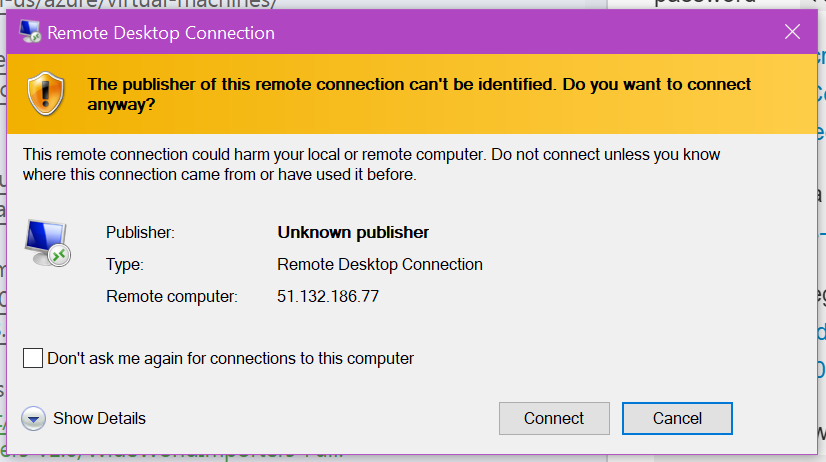
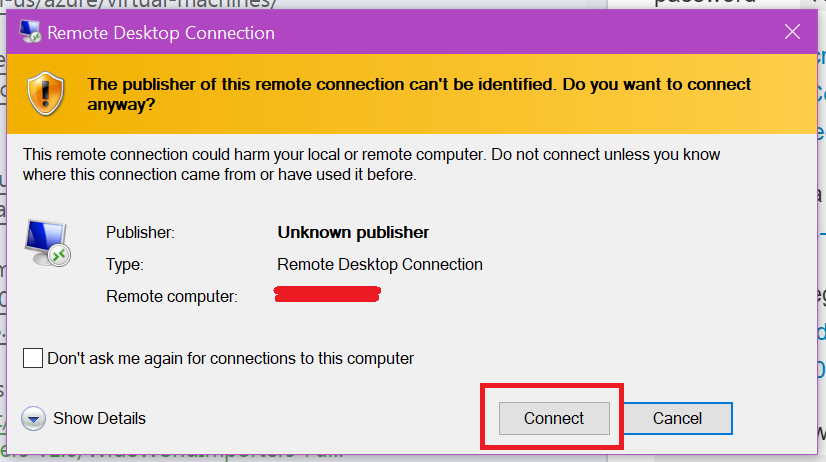
Further upload of module 11 content. Still need to finish Summary section.

Changed region(s): [[0.5751, 0.8182, 0.7567, 1.0], [0.3329, 0.6061, 0.4843, 0.6667]]

diff --git a/modules/module11.md b/modules/module11.md
@@ -5,6 +5,7 @@
 ## :thinking: Prerequisites
 
 * An [Azure account](https://azure.microsoft.com/en-us/free/) with an active subscription.
+* A SQL Virtual Machine (see [module 00](../modules/module00.md)).
 * An Azure Azure Purview account (see [module 01](../modules/module01.md)).
 
 ## :loudspeaker: Introduction
@@ -13,151 +14,108 @@ To populate Azure Purview with assets from your on-premise data sources, we must
 
 ## :dart: Objectives
 
-* Connect to on premise data source and ingest data assets to Azure Purview.
+* Connect to on premise data source using a self-hosted integration runtime.
 
 ## Table of Contents
 
-1. [Install SHIR](#1-install-self-hosted-integration-runtime)
-2. [Generate a Client Secret](#2-generate-a-client-secret)
-3. [Provide Service Principal Access to Azure Purview](#3-provide-service-principal-access-to-azure-purview)
-4. [Use Postman to Call Azure Purview REST API](#4-use-postman-to-call-azure-purview-rest-api)
+1. [Connect to SQL Virtual Machine](#1-connect-to-sql-virtual-machine)
+2. [Install Self-Hosted Integration Runtime](#2-install-self-hosted-integration-runtime)
+3. [Authenticate to Azure Purview](#3-authenticate-to-azure-purview)
 
-<div align="right"><a href="#module-10---rest-api">↥ back to top</a></div>
+<div align="right"><a href="#module-11---self-hosted-integration-runtime">↥ back to top</a></div>
 
-## 1. Install Self-Hosted Integration Runtime
+## 1. Connect to SQL Virtual Machine
 
-To invoke the REST API, we must first register an application (i.e. service principal) that will act as the identity that the Azure Purview platform reognizes and is configured to trust.    
+To invoke the install the self-hosted integration runtime, we must first log into our SQL virtual machine. For this example, we'll be using the RDP connection to complete this step. If you would like to use **Bastion** to connect, follow the [instructions here](https://docs.microsoft.com/en-gb/azure/bastion/quickstart-host-portal#createvmset) to get this set-up. 
+
+> :book: **Note** once the environment set-up is complete, your VM should already be in 'running' state. If this is not the case, you will need to 'start' your VM. 
+
+1. Navigate to your Virtual Machine resource in the [Azure portal](https://portal.azure.com/). In the **Overview** section (left blade), click on '**Connect**' and '**RDP**' from the drop-down menu.
+
+    ![](../images/module11/shir-install-13.png)
+
+2. In the next page, click '**Download RDP File**'. Once the file has downloaded, click '**Open**'.
+    ![](../images/module11/shir-install-14.png)
+    ![](../images/module11/shir-install-15.png)
+
+3. You will need to access the SQL username and password generated when deploying the lab environment from [module 00](../modules/module00.md). To find these details, navigate to the resource group in the [Azure portal](https://portal.azure.com/). Under '**Settings > Deployments**', click on '**SQLVMDeployment**'.
+
+    ![](../images/module11/shir-install-19b.png)
+    ![](../images/module11/shir-install-19.png)
+
+4. Navigate to the '**Outputs**' blade within the SQLVMDeployment area to find your SQL Admin username and password. 
+
+    ![](../images/module11/shir-install-20.png)
+
+5. In the Remote Desktop Connection pop-up window, click '**Connect**'.
+
+    ![](../images/module11/shir-install-16.png)
+    
+6. Here you need to log into the virtual machine using the credentials supplied in the '**Outputs**' blade in the deployment area of the resource group you created in [module 00](../modules/module00.md). You'll need to select the '**More Choices**' option and/or '**Use a different account**' options in the log in window. 
+
+    > :book: **Note** You'll need to log in using the format **username** = _vm name\sqladmin username_ and **password** = _sql password_
+
+    ![](../images/module11/shir-install-17.png)
+    ![](../images/module11/shir-install-18.png)
+
+7. You'll see a warning message, click **Yes** to continue. 
+
+    ![](../images/module11/shir-install-21.png)
+
+<div align="right"><a href="#module-11---self-hosted-integration-runtime">↥ back to top</a></div>
+
+## 2. Install Self-Hosted Integration Runtime
 
 > :bulb: **Did you know?**
 >
-> An Azure **service principal** is an identity created for use with applications, hosted services, and automated tools to access Azure resources.
+> The **integration runtime** (IR) is the compute infrastructure that Azure Services use to provide data-integration capabilities across different network environments. 
 
-1. Sign in to the [Azure portal](https://portal.azure.com/), navigate to **Azure Active Directory** > **App registrations**, and click **New registration**.
+1. In the virtual machine, open the browser and navigate to the [integration runtime download page](https://www.microsoft.com/en-us/download/confirmation.aspx?id=39717). If the download doesn't start automatically, download the latest version of the integraion runtime from the list presented. Click '**Run**' when the download begins. 
 
-    ![](../images/module10/10.01-azuread-appreg.png)
+    ![](../images/module11/shir-install-22.png)
+    ![](../images/module11/shir-install-23.png)
 
-2. Provide the application a **name**, select an **account type**, and click **Register**.
+2. Follow the instruction on screen to complete the installation process and click finish to proceed to the next step. 
 
-    | Property | Example Value |
-    | --- | --- |
-    | Name | `purview-spn` |
-    | Account Type | Accounts in this organizational directory only - Single tenant |
-    | Redirect URI (optional) | *Leave blank* |
+    ![](../images/module11/shir-install-1.png)
+    ![](../images/module11/shir-install-2.png)
+    ![](../images/module11/shir-install-3.png)
+    ![](../images/module11/shir-install-4.png)
+    ![](../images/module11/shir-install-5.png)
+    ![](../images/module11/shir-install-6.png)
 
-    ![](../images/module10/10.02-azuread-register.png)
+3. If the integration runtime manager doesn't open automatically, navigate to the **Start Menu** and click '**Microsoft Integration Runtime**'. Once the IR Manager window opens, we can move on to the next step to [authenticate to Azure Purview](#3-authenticate-to-azure-purview).
 
-3. **Copy** the following values for later use.
+    ![](../images/module11/shir-install-7.png)
 
-    * Application (client) ID
-    * Directory (tenant) ID
+<div align="right"><a href="#module-11---self-hosted-integration-runtime">↥ back to top</a></div>
 
-    ![](../images/module10/10.03-spn-copy.png)
+## 3. Authenticate to Azure Purview
 
-<div align="right"><a href="#module-10---rest-api">↥ back to top</a></div>
+1. Within the Azure Purview Studio, navigate to the **Data Map** in the left blade, click **Integration Runtime** and click **+ New**.
 
-## 2. Generate a Client Secret
+    ![](../images/module11/shir-install-9.png)
 
-1. Navigate to **Certifications & secrets** and click **New client secret**.
+2. Ensure the **Self-Hosted** option is selected, then click **Continue**.
 
-    ![](../images/module10/10.04-spn-secret.png)
+    ![](../images/module11/shir-install-10.png)
 
-2. Provide a **Description** and set the **expiration** to `In 1 year`, click **Add**.
+3. Give your integration runtime a name _(mandatory)_ and a description _(optional)_, then click **Create**.
 
-    | Property | Example Value |
-    | --- | --- |
-    | Description | `purview-api` |
-    | Expires | `In 1 year` |
+    ![](../images/module11/shir-install-11.png)
 
-    ![](../images/module10/10.05-spn-secretadd.png)
+4. Copy one of the **keys** to your clipboard then open your virtual machine window and paste this key into the **integration runtime manager window**. Click **Register** when the button becomes active and then **Finish** in the next screen. 
 
-3. **Copy** the client secret value for later use.
+    ![](../images/module11/shir-install-12.png)
+    ![](../images/module11/shir-install-8.png)
+    ![](../images/module11/shir-install-8b.png)
 
+5. Once successfully registered, you should see a  green tick :heavy_check_mark: within the **integration runtime manager window** and the **Azure Purview Studio integration runtime manager area**.
 
-    > :bulb: **Did you know?**
-    >
-    > A **client secret** is a secret string that the application uses to prove its identity when requesting a token, this can also can be referred to as an application password.
+    ![](../images/module11/shir-install-24.png)
+    ![](../images/module11/shir-install-25.png)
 
-    ![](../images/module10/10.06-secret-copy.png)
-
-<div align="right"><a href="#module-10---rest-api">↥ back to top</a></div>
-
-## 3. Provide Service Principal Access to Azure Purview
-
-1. Under the Azure Purview account, navigate to **Access control (IAM)** and click **Add role assignments**.
-
-    ![](../images/module10/10.07-access-add.png)
-
-2. Select the **Purview Data Curator** role, select the service principal and click **Save**.
-
-    ![](../images/module10/10.08-rbac-assign.png)
-
-<div align="right"><a href="#module-10---rest-api">↥ back to top</a></div>
-
-## 4. Use Postman to Call Azure Purview REST API
-
-1. Open [Postman](https://www.postman.com/product/rest-client/), create a new **HTTP request** as per the details below.
-
-    > :bulb: **Did you know?**
-    >
-    > The OAuth2 service endpoint is used to gain access to protected resources such as Azure Purview. The HTTP request enables us to acquire an `access_token` in a way that is language agnostic, this will subsequently be used to query the Azure Purview API.
-    
-    | Property | Value |
-    | --- | --- |
-    | HTTP Method | `POST` |
-    | URL | `https://login.microsoftonline.com/YOUR_TENANT_ID/oauth2/token` |
-    | Body Type | `x-wwww-form-urlencoded` |
-
-    Navigate to **Body**, select `x-wwww-form-urlencoded` and provide the following key value pairs. Once HTTP request is ready, click **Send**. If successful, the response will contain an **access token**, copy this value for later use.
-
-    | Form Key | Form Value |
-    | --- | --- |
-    | grant_type | `client_credentials` |
-    | client_id | `YOUR_CLIENT_ID` |
-    | client_secret | `YOUR_CLIENT_SECRET` |
-    | resource | `https://purview.azure.net` |
-
-    ![](../images/module10/10.09-postman-login.png)
-
-2. Within the Azure portal, open the Azure Purview account, navigate to **Properties** and find the **Atlas endpoint**. **Copy** this value for later use.
-
-    > :bulb: **Did you know?**
-    >
-    > The Azure Purview catalog endpoint is largely based on the open source **Apache Atlas** project. Therefore many of the existing Apache Atlas resources (e.g. [swagger](https://atlas.apache.org/api/v2/ui/index.html)) is equally relevant for Azure Purview. There is also the official API Swagger documentation available for download - [PurviewCatalogAPISwagger.zip](https://github.com/Azure/Purview-Samples/raw/master/rest-api/PurviewCatalogAPISwagger.zip).
-
-    ![Purview Properties](../images/module10/10.11-purview-properties.png)
-
-3. Using [Postman](https://www.postman.com/product/rest-client/) once more, create a new **HTTP request** as per the details below. 
-
-    * Paste the copied endpoint into the URL (e.g. `https://PURVIEW_ACCOUNT.catalog.purview.azure.com`)
-    * Add the following at the end of the URL to complete the endpoint: `/api/atlas/v2/types/typedefs`
-
-    > Note: Calling this particular endpoint will result in the bulk retrieval of all **type definitions**. A type definition in Azure Purview is the equivalent of a blueprint and determines how certain objects (e.g. entities, classifications, relationships, etc) need to be created.
-
-    | Property | Value |
-    | --- | --- |
-    | HTTP Method | `GET` |
-    | URL | `https://YOUR_PURVIEW_ACCOUNT.catalog.purview.azure.com/api/atlas/v2/types/typedefs` |
-
-    Navigate to **Headers**, provide the following key value pair, click **Send**.
-
-    | Header Key | Header Value |
-    | --- | --- |
-    | Authorization | `Bearer YOUR_ACCESS_TOKEN` |
-
-    > Note: You generated an `access_token` in the previous request. Copy and paste this value. Ensure to include the "Bearer " prefix.
-
-    ![](../images/module10/10.10-postman-get.png)
-
-4. If successful, Postman should return a JSON document in the body of the response. Click on the **magnifying glass** and search for the following phrase `"name": "azure_sql_table"` to jump down to the entity definition for an Azure SQL Table.
-
-    > :bulb: **Did you know?**
-    >
-    > While Azure Purview provides a number of system built type definitions for a variety of object types, Customers can use the API to create their own custom type definitions.
-
-    ![](../images/module10/10.12-typedef-search.png)
-
-
-<div align="right"><a href="#module-10---rest-api">↥ back to top</a></div>
+<div align="right"><a href="#module-11---self-hosted-integration-runtime">↥ back to top</a></div>
 
 ## :mortar_board: Knowledge Check
 
@@ -179,8 +137,9 @@ To invoke the REST API, we must first register an application (i.e. service prin
     A ) True  
     B ) False  
 
-<div align="right"><a href="#module-10---rest-api">↥ back to top</a></div>
+<div align="right"><a href="#module-11---self-hosted-integration-runtime">↥ back to top</a></div>
 
 ## :tada: Summary
 
-In this module, you learned how to get started with the Azure Purview REST API. To learn more about the Azure Purview REST API, check out the [Swagger documentation](https://github.com/Azure/Purview-Samples/raw/master/rest-api/PurviewCatalogAPISwagger.zip).
+In this module, you learned how to install the self-hosted integration runtime to your virtual machine network and get it connected up to Azure Purview. If you'd like 
+get started with the Azure Purview REST API. To learn more about the Azure Purview REST API, check out the [Swagger documentation](https://github.com/Azure/Purview-Samples/raw/master/rest-api/PurviewCatalogAPISwagger.zip).
